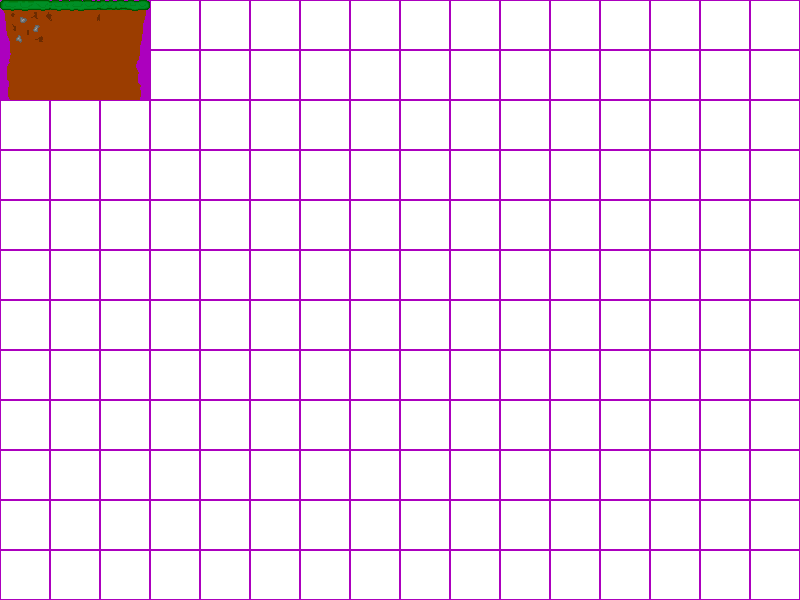
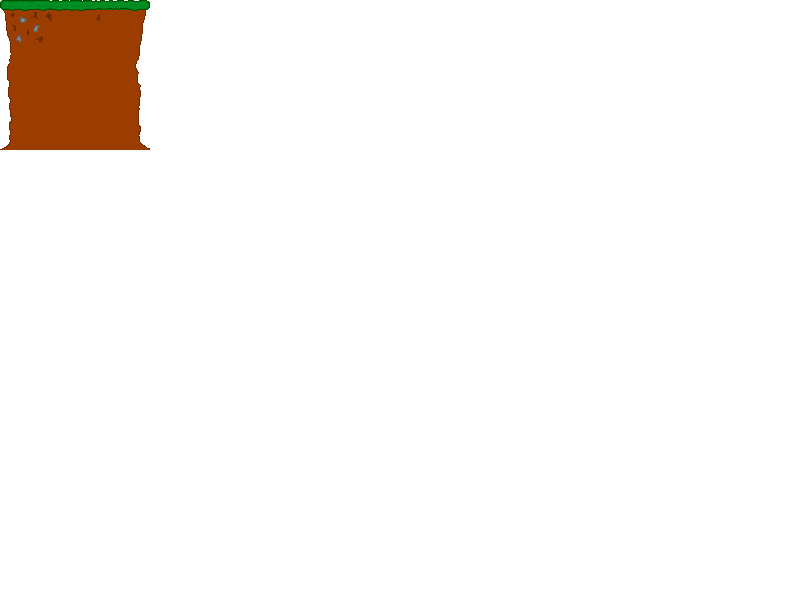
- Improvement at Tiled-based levels: Animated tiles! :D (Also removing unnecessary structure lists in levels)

diff --git a/Game.py b/Game.py
@@ -1,14 +1,13 @@
 #!/usr/bin/env python3
 # -*- coding: utf-8 -*-
 import pygame
-import pytmx
 from SaveGame import SaveGame
+from managers.LevelManager.LevelDataClass import LevelDataClass
+from managers.LevelManager.LevelManager import LevelManager
 from models.Bodies.PlayerBody import PlayerBody
-from models.Level.Level1 import Level1
-from models.Level.Level2 import Level2
 from views._ScreenHolder import _ScreenHolder
 from views.PauseScreen import PauseScreen
-from constants import COLORS, PLAYER_SIZE, ANTIALIASING, DEBUG
+from constants import COLORS, PLAYER_SIZE, ANTIALIASING
 
 
 class Game:
@@ -34,14 +33,9 @@ class Game:
         self._save = _ScreenHolder()
         # Game loading
         saved_state = saved_state_name if saved_state_name is None else SaveGame.load_file(saved_state_name)
-        doom_valley_map = pytmx.load_pygame("resources/images/LevelMaps/DoomValley/DoomValleyLevel.tmx")
-        the_ring_map = pytmx.load_pygame("resources/images/LevelMaps/TheRing/TheRingLevel.tmx")
         # Player
         self.player = PlayerBody(COLORS['RED'], PLAYER_SIZE, PLAYER_SIZE, managers, saved_state)
-        # Levels
-        self.levels = {"DoomValley": Level1(screen, scr_size, managers, self.player, doom_valley_map, DEBUG),
-                       "TheRing": Level2(screen, scr_size, managers, self.player, the_ring_map, DEBUG)}
-        self._init_player_location(saved_state, self.player, self.levels)
+        self._init_player_location(saved_state, self.player, self._managers.levels)
         # We activate the music in the current level
         self._level.set_theme()
 
@@ -70,7 +64,9 @@ class Game:
                         self.gameOver = True
                     else:
                         self._managers.sound.stop_music()
-                        self._level = self.levels['TheRing']
+                        next_id = self._level.next_id
+                        level_data = LevelDataClass(next_id, self._screen, self._scrSize, self._managers, self.player)
+                        self._level = self._managers.levels.load_level(level_data)
                         self.player.rect.x = self._level.levelInit[0]
                         self.player.rect.y = self._level.levelInit[1]
                         self.player.plainLevel = self._level.plainLevel
@@ -79,7 +75,7 @@ class Game:
 
     def display_frame(self):
         """ This function displays all graphic resources and effects """
-        self._screen.fill(COLORS['GREY'])                   # BLACK
+        self._screen.fill(COLORS['GREY'])
         # Checks if the player still lives on
         if self.gameOver:
             self._screen.blit(self.gOverText[0], [(self._scrSize[0] / 2) - 45, self._scrSize[1] / 2 - 50])
@@ -104,15 +100,17 @@ class Game:
         return True
 
     # ---------- Internal Methods ----------------------
-    def _init_player_location(self, saved_state: dict, player, levels: dict):
+    def _init_player_location(self, saved_state: dict, player, level_manager: LevelManager):
         if saved_state is not None:
             # You've a game saved, so you start in the level and position stored
-            self._level = levels[saved_state['Level']['ID']]
+            level_data = LevelDataClass(saved_state['Level']['ID'], self._screen, self._scrSize, self._managers, player)
+            self._level = level_manager.load_level(level_data)
             player.rect.x = saved_state['Level']['PositionX']
             player.rect.y = saved_state['Level']['PositionY']
         else:
             # Don't have a game file? You start where everyone does (We respect and support equality)
-            self._level = levels['DoomValley']
+            level_data = LevelDataClass("DoomValley", self._screen, self._scrSize, self._managers, player)
+            self._level = level_manager.load_level(level_data)
             player.rect.x = self._level.levelInit[0]
             player.rect.y = self._level.levelInit[1]
 

diff --git a/managers/LevelManager/LevelManager.py b/managers/LevelManager/LevelManager.py
@@ -1,0 +1,28 @@
+#!/usr/bin/env python3
+# -*- coding: utf-8 -*-
+import pytmx
+from managers.LevelManager.LevelError import LevelError
+from models.Level.DoomValleyLevel import DoomValleyLevel
+from models.Level.TheRingLevel import TheRingLevel
+from constants import DEBUG, ROOT
+
+
+class LevelManager:
+    def __init__(self):
+        self._levels_path = f'{ROOT}/resources/images/LevelMaps'
+
+    def load_level(self, level_data):
+        try:
+            tile_map = pytmx.load_pygame(f"{self._levels_path}/{level_data.id}/{level_data.id}Level.tmx")
+            screen = level_data.screen
+            scr_size = level_data.screen_size
+            managers = level_data.managers
+            player = level_data.player
+
+            if "DoomValley" == level_data.id:
+                return DoomValleyLevel(screen, scr_size, managers, player, tile_map, DEBUG)
+            elif "TheRing" == level_data.id:
+                return TheRingLevel(screen, scr_size, managers, player, tile_map, DEBUG)
+        except FileNotFoundError:
+            raise LevelError(f"Level was not found -> ID = {level_data.id}")
+

diff --git a/models/Level/_LevelBase.py b/models/Level/_LevelBase.py
@@ -29,7 +29,8 @@ class _LevelBase:
         self.screen = screen
         self.scrSize = scr_size
         self._managers = managers
-        self.ID = None                              # A level identifier
+        self.ID = None                              # Current level identifier
+        self.next_id = None                         # The next level to show
         self._tilemap = tilemap
         self.levelInit = [0, 0]                     # Level enter point
         self.reference = []                         # Level fixed references for scroll
@@ -132,7 +133,7 @@ class _LevelBase:
             body.imageList = tile.img_list
 
         body.image = tile.img
-        body.image.set_colorkey(COLORS['DEF_ALPHA'])
+        body.image.set_colorkey(COLORS['WHITE'])
         self._set_body(body, tile.x, tile.y, self._solid_group)
 
     def _fill_tmx_items(self, tile: TmxBody):

diff --git a/models/Level/_HorizontalLevel.py b/models/Level/_HorizontalLevel.py
@@ -24,14 +24,12 @@ class _HorizontalLevel(_LevelBase):
         # Update all elements in level
         self._bodies.update()
         # Checks the condition for going out the level
-        if self.player.isDead:
+        if self.player.isDead or self.player.coins == 10:
             return True
-        elif self.player.coins < 10:
-            self.player.update(self._solid_group, self._weak_group)
-            self._scroll()
-            if self.debug:
-                self._update_player_debug()
 
-            return False
-        else:
-            return True
+        self.player.update(self._solid_group, self._weak_group)
+        self._scroll()
+        if self.debug:
+            self._update_player_debug()
+
+        return False

diff --git a/models/Level/DoomValleyLevel.py b/models/Level/DoomValleyLevel.py
@@ -7,11 +7,12 @@ from models.Bodies.SnowBody import SnowBody
 from constants import COLORS
 
 
-class Level1(_HorizontalLevel):
+class DoomValleyLevel(_HorizontalLevel):
     def __init__(self, screen, scr_size, managers, player, tilemap: TiledMap, debug: bool = False):
         super().__init__(screen, scr_size, managers, player, tilemap, debug)
         # Level data
         self.ID = "DoomValley"
+        self.next_id = "TheRing"
         self.levelInit = (56, 900)                     # Initial player position's coordinates (50, 900)
         # Populating level
         self._fill_tmx_level(self._tilemap)

diff --git a/managers/ManagerDataClass.py b/managers/ManagerDataClass.py
@@ -1,5 +1,6 @@
 #!/usr/bin/env python3
 # -*- coding: utf-8 -*-
+from managers.LevelManager.LevelManager import LevelManager
 from .ImageManager import ImageManager
 from .LocalizationManager import LocalizationManager
 from .SoundManager import SoundManager
@@ -9,5 +10,6 @@ from dataclasses import dataclass
 @dataclass
 class ManagerDataClass:
     image: ImageManager = None
-    localization: LocalizationManager = None
     sound: SoundManager = None
+    localization: LocalizationManager = LocalizationManager()
+    levels: LevelManager = LevelManager()

diff --git a/managers/LevelManager/LevelDataClass.py b/managers/LevelManager/LevelDataClass.py
@@ -1,0 +1,15 @@
+#!/usr/bin/env python3
+# -*- coding: utf-8 -*-
+from dataclasses import dataclass
+from pygame.surface import Surface
+from managers import ManagerDataClass
+from models.Bodies.PlayerBody import PlayerBody
+
+
+@dataclass
+class LevelDataClass:
+    id: str
+    screen: Surface
+    screen_size: tuple
+    managers: ManagerDataClass
+    player: PlayerBody

diff --git a/managers/LocalizationManager.py b/managers/LocalizationManager.py
@@ -20,7 +20,7 @@ class LocalizationManager:
                 "es": gettext.translation("PrimalRing_es", localization_route, languages=["es_ES"])
             }
         except FileNotFoundError as fnfex:
-            print(fnfex.strerror)
+            self.LOGGER.error(fnfex.strerror)
             print(localization_route)
 
     def set_lang(self, lang_code: str) -> None:

diff --git a/models/Level/TheRingLevel.py b/models/Level/TheRingLevel.py
@@ -4,7 +4,7 @@ from pytmx import TiledMap
 from models.Level._PlainLevel import _PlainLevel
 
 
-class Level2(_PlainLevel):
+class TheRingLevel(_PlainLevel):
     def __init__(self, screen, src_size, managers, player, tilemap: TiledMap, debug: bool = False):
         super().__init__(screen, src_size, managers, player, tilemap, debug)
         # Level data

diff --git a/tests/managers/image_manager_test.py b/tests/managers/image_manager_test.py
@@ -1,8 +1,11 @@
 #!/usr/bin/env python3
 # -*- coding: utf-8 -*-
 import pytest
+from constants import ROOT
 from pygame import error
 from managers.ImageManager import ImageManager
+
+ROOT = "C:/Users/jcarl/PycharmProjects/PrimalRingProject/PrimalRing"
 
 
 @pytest.fixture()

diff --git a/managers/__init__.py b/managers/__init__.py
@@ -1,7 +1,5 @@
 #!/usr/bin/env python3
 # -*- coding: utf-8 -*-
-from .LocalizationManager import LocalizationManager
 from .ManagerDataClass import ManagerDataClass
 
 managers = ManagerDataClass()
-managers.localization = LocalizationManager()

diff --git a/managers/LevelManager/LevelError.py b/managers/LevelManager/LevelError.py
@@ -1,0 +1,7 @@
+#!/usr/bin/env python3
+# -*- coding: utf-8 -*-
+
+
+class LevelError(Exception):
+    def __init__(self, message):
+        super().__init__(message)
